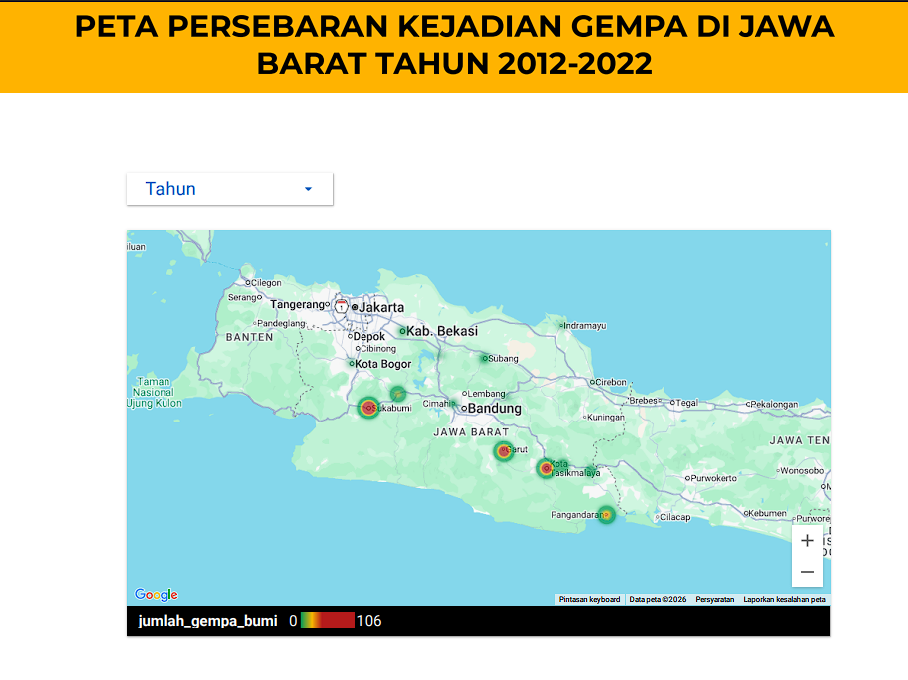
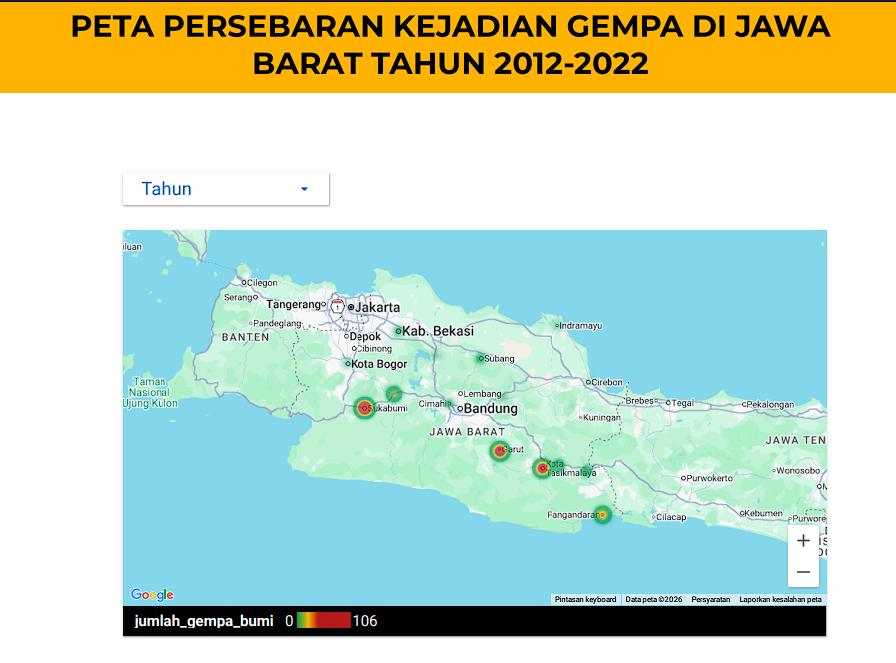
rombak layout portfolio dan tambah project dan sertifikasi

Changed region(s): [[0.125, 0.2715, 0.9375, 0.9653], [0.0, 0.0, 1.0, 0.1508]]

diff --git a/src/Components/Layouts/Project_Section/Project_section.jsx b/src/Components/Layouts/Project_Section/Project_section.jsx
@@ -1,5 +1,5 @@
 // Section_Project.js
-import { useEffect } from "react";
+import { useEffect, useRef } from "react";
 import Card from "../../Elements/Card/Card";
 import Heading1 from "../../Elements/Heading1/Heading1";
 import Aos from "aos";
@@ -9,6 +9,19 @@ const Section_Project = () => {
     useEffect(() => {
         Aos.init({duration:2000});
     })
+    
+    const sliderRef = useRef(null);
+    const slideLeft = () => {
+        if (sliderRef.current) {
+            sliderRef.current.scrollBy({ left: -window.innerWidth / 2, behavior: 'smooth' });
+        }
+    };
+
+    const slideRight = () => {
+        if (sliderRef.current) {
+            sliderRef.current.scrollBy({ left: window.innerWidth / 2, behavior: 'smooth' });
+        }
+    };
     const stacksInfo = {
         html: { name: 'HTML', icon: 'https://cdn.jsdelivr.net/gh/devicons/devicon@latest/icons/html5/html5-original.svg' },
         css: { name: 'CSS', icon: 'https://cdn.jsdelivr.net/gh/devicons/devicon@latest/icons/css3/css3-original.svg' },
@@ -19,26 +32,45 @@ const Section_Project = () => {
         excel: { name: 'Excel', icon: '/img/excel.png' },
         lookerstudio: { name: 'Looker Studio', icon: '/img/lookerstudio.svg' },
         figma: { name: 'Figma', icon: '/img/figma.png' },
+        laravel: { name: 'Laravel', icon: 'https://cdn.jsdelivr.net/gh/devicons/devicon@latest/icons/laravel/laravel-original.svg' },
+        php: { name: 'PHP', icon: 'https://cdn.jsdelivr.net/gh/devicons/devicon@latest/icons/php/php-original.svg' },
+        bootstrap: { name: 'Bootstrap', icon: 'https://cdn.jsdelivr.net/gh/devicons/devicon@latest/icons/bootstrap/bootstrap-original.svg' },
+        mysql: { name: 'MySQL', icon: 'https://cdn.jsdelivr.net/gh/devicons/devicon@latest/icons/mysql/mysql-original.svg' },
+        python: { name: 'Python', icon: 'https://cdn.jsdelivr.net/gh/devicons/devicon@latest/icons/python/python-original.svg' },
 
     };
     const daisyuiIcon = 'https://img.daisyui.com/images/daisyui-logo/daisyui-logomark.svg';
 
     const card = [
-        {id:1, title:'Portofolio Versi Lama', teks:'Website portofolio pertama yang saya buat waktu awal-awal ngoding. Cocok buat nostalgia ngeliat skill dasar front-end dan beberapa project lawas saya.', img:'/img/newPortofolio.png', stylingklik:'btn btn-outline btn-primary btn-sm sm:btn-md lg:btn-wide', kalimatButton:'Lihat Project', link:'https://putrapradwi.vercel.app/', stack: [stacksInfo.html, stacksInfo.css, stacksInfo.js]},
-        {id:2, title:'Digital Idul Fitri & THR', teks:'Website seru-seruan buat ngucapin Selamat Idul Fitri. Nggak cuma banner ucapan biasa, di sini juga ada tombol rahasia yang isinya link Dana Kaget buat bagi-bagi THR beneran ke teman-teman!',img:'/img/idulFitri.png', stylingklik:'btn btn-outline btn-primary btn-sm sm:btn-md lg:btn-wide', kalimatButton:'Lihat Project', link:'https://idulfitri-nine.vercel.app/', stack: [stacksInfo.react, stacksInfo.tailwind, {name: 'DaisyUI', icon: daisyuiIcon}]},
-         {id:3, title:'Visualisasi Peta Persebaran Gempa Di Jawa Barat ', teks:'Sebuah Project kelompok bersama temen-temen kuliah dengan tema visualisasi data gempa di Jawa Barat menggunakan data dump dari kaggle.com', img:'/img/peta.png', stylingklik:'btn btn-outline btn-primary btn-sm sm:btn-md lg:btn-wide', kalimatButton:'Lihat Project', link:'https://datastudio.google.com/s/qA_-MnGtm-Q', stack: [stacksInfo.lookerstudio, stacksInfo.excel]},
-        {id:4, title:'App Patungan Makan', teks:'Suka pusing kalau habis nongkrong tapi bingung ngitung patungan? Nah, web app sederhana ini saya bikin khusus buat ngitung tagihan makan/nongkrong bareng supaya lebih cepat, gampang, dan adil.', img:'/img/Apppatungan.png', stylingklik:'btn btn-outline btn-primary btn-sm sm:btn-md lg:btn-wide', kalimatButton:'Lihat Project', link:'https://patunganapp.vercel.app/', stack: [stacksInfo.vue, stacksInfo.tailwind]},
-         {id:5, title:'Slicing Landing Page Manajemen Kontrak', teks:'website dibuat ulang dengan desain yang lebih modern dan responsif dengan sumber dari desain yang saya dapat dari dribble', img:'/img/slicingdesain.png', stylingklik:'btn btn-outline btn-primary btn-sm sm:btn-md lg:btn-wide', kalimatButton:'Lihat Project', link:'https://slicing-website-two.vercel.app/', stack: [stacksInfo.vue, stacksInfo.tailwind]},
-        {id:6, title:'Auto Random Color', teks:'Proyek iseng untuk belajar eksplorasi logika Javascript. Website ini langsung ngasih kombinasi warna-warna acak yang unik di layar cuma bermodal sekali klik. Simpel, tapi seru buat dilihat.', img:'/img/randomColor.png', stylingklik:'btn btn-outline btn-primary btn-sm sm:btn-md lg:btn-wide', kalimatButton:'Lihat Project', link:'https://auto-random-color.vercel.app/', stack: [stacksInfo.html, stacksInfo.css, stacksInfo.js]},
+       
+        {id:2, title:'Catatanku', teks:'app catatan sederhana merupakan project pertama saya menggunakan laravel dan my sql digunakan untuk menyimpan catatan pribadi', img:'/img/catatanku.png', stylingklik:'btn btn-outline btn-primary btn-sm sm:btn-md lg:btn-wide', kalimatButton:'Lihat Project', link:'https://catatanku-app.vercel.app/', stack: [stacksInfo.laravel, stacksInfo.mysql, stacksInfo.php]},
+        {id:3, title:'To Do List', teks:'aplikasi to do list sederhana merupakan project pertama saya menggunakan laravel dan my sql digunakan untuk menyimpan catatan pribadi', img:'/img/todolist.png', stylingklik:'btn btn-outline btn-primary btn-sm sm:btn-md lg:btn-wide', kalimatButton:'Lihat Project', link:'https://tododolist-app.vercel.app/', stack: [stacksInfo.laravel, stacksInfo.mysql, stacksInfo.php]},
+         {id:4, title:'Sistem Parkir Mall', teks:'aplikasi sistem parkir mall merupakan project pertama saya menggunakan laravel dan my sql digunakan untuk menyimpan catatan pribadi', img:'/img/sistemparkirmall.png', stylingklik:'btn btn-outline btn-primary btn-sm sm:btn-md lg:btn-wide', kalimatButton:'Lihat Project', link:'https://sistemparkirmall.vercel.app/', stack: [stacksInfo.laravel, stacksInfo.mysql, stacksInfo.php]},
+        {id:5, title:'Digital Idul Fitri & THR', teks:'Website seru-seruan buat ngucapin Selamat Idul Fitri. Nggak cuma banner ucapan biasa, di sini juga ada tombol rahasia yang isinya link Dana Kaget buat bagi-bagi THR beneran ke teman-teman!',img:'/img/idulFitri.png', stylingklik:'btn btn-outline btn-primary btn-sm sm:btn-md lg:btn-wide', kalimatButton:'Lihat Project', link:'https://idulfitri-nine.vercel.app/', stack: [stacksInfo.react, stacksInfo.tailwind, {name: 'DaisyUI', icon: daisyuiIcon}]},
+         {id:6, title:'Visualisasi Peta Persebaran Gempa Di Jawa Barat ', teks:'Sebuah Project kelompok bersama temen-temen kuliah dengan tema visualisasi data gempa di Jawa Barat menggunakan data dump dari kaggle.com', img:'/img/peta.png', stylingklik:'btn btn-outline btn-primary btn-sm sm:btn-md lg:btn-wide', kalimatButton:'Lihat Project', link:'https://datastudio.google.com/s/qA_-MnGtm-Q', stack: [stacksInfo.lookerstudio, stacksInfo.excel]},
+        {id:7, title:'App Patungan Makan', teks:'Suka pusing kalau habis nongkrong tapi bingung ngitung patungan? Nah, web app sederhana ini saya bikin khusus buat ngitung tagihan makan/nongkrong bareng supaya lebih cepat, gampang, dan adil.', img:'/img/Apppatungan.png', stylingklik:'btn btn-outline btn-primary btn-sm sm:btn-md lg:btn-wide', kalimatButton:'Lihat Project', link:'https://patunganapp.vercel.app/', stack: [stacksInfo.vue, stacksInfo.tailwind]},
+         {id:8, title:'Slicing Landing Page Manajemen Kontrak', teks:'website dibuat ulang dengan desain yang lebih modern dan responsif dengan sumber dari desain yang saya dapat dari dribble', img:'/img/slicingdesain.png', stylingklik:'btn btn-outline btn-primary btn-sm sm:btn-md lg:btn-wide', kalimatButton:'Lihat Project', link:'https://slicing-website-two.vercel.app/', stack: [stacksInfo.vue, stacksInfo.tailwind]},
+        {id:9, title:'Auto Random Color', teks:'Proyek iseng untuk belajar eksplorasi logika Javascript. Website ini langsung ngasih kombinasi warna-warna acak yang unik di layar cuma bermodal sekali klik. Simpel, tapi seru buat dilihat.', img:'/img/randomColor.png', stylingklik:'btn btn-outline btn-primary btn-sm sm:btn-md lg:btn-wide', kalimatButton:'Lihat Project', link:'https://auto-random-color.vercel.app/', stack: [stacksInfo.html, stacksInfo.css, stacksInfo.js]},
+         {id:10, title:'Portofolio Versi Lama', teks:'Website portofolio pertama yang saya buat waktu awal-awal ngoding. Cocok buat nostalgia ngeliat skill dasar front-end dan beberapa project lawas saya.', img:'/img/newPortofolio.png', stylingklik:'btn btn-outline btn-primary btn-sm sm:btn-md lg:btn-wide', kalimatButton:'Lihat Project', link:'https://putrapradwi.vercel.app/', stack: [stacksInfo.html, stacksInfo.css, stacksInfo.js]},
     ]
 
     return (
         <div data-aos="fade-up" className={`container mx-auto px-4 py-8  sm:px-6 lg:px-8`} id="project">
             <Heading1 Text={`Project`} Styling={`text-center text-2xl capitalize mb-10 sm:text-3xl md:text-4xl lg:text-5xl`}/>
-            <div className={`grid grid-cols-1 gap-6 sm:grid-cols-2 lg:grid-cols-2 `}>
-                {card.map((card)=>(
-                    <Card key={card.id} Title={card.title} Teks={card.teks} Imgsrc={card.img} styleImage={`w-full sm:w-3/4 mx-auto rounded-xl object-cover`} styleHeading={`font-bold mt-4 mb-3 text-center text-xl sm:text-xl md:text-2xl`} StyleKalimat={`mt-3 mb-4 text-justify text-slate-300 text-sm sm:text-base md:text-lg`} styleButton={card.stylingklik} textbutton={card.kalimatButton} Link={card.link} stack={card.stack}/>
-                ))}
+            <div className="relative group">
+                <button onClick={slideLeft} className="absolute left-0 sm:left-2 lg:-left-4 top-1/2 -translate-y-1/2 z-10 bg-slate-800/80 hover:bg-primary hover:text-white p-2 sm:p-3 rounded-full text-slate-300 shadow-xl backdrop-blur-sm transition-all opacity-70 hover:opacity-100 sm:opacity-0 group-hover:opacity-100 flex items-center justify-center">
+                    <svg xmlns="http://www.w3.org/2000/svg" fill="none" viewBox="0 0 24 24" strokeWidth={2.5} stroke="currentColor" className="w-5 h-5 sm:w-6 sm:h-6"><path strokeLinecap="round" strokeLinejoin="round" d="M15.75 19.5L8.25 12l7.5-7.5" /></svg>
+                </button>
+                <button onClick={slideRight} className="absolute right-0 sm:right-2 lg:-right-4 top-1/2 -translate-y-1/2 z-10 bg-slate-800/80 hover:bg-primary hover:text-white p-2 sm:p-3 rounded-full text-slate-300 shadow-xl backdrop-blur-sm transition-all opacity-70 hover:opacity-100 sm:opacity-0 group-hover:opacity-100 flex items-center justify-center">
+                    <svg xmlns="http://www.w3.org/2000/svg" fill="none" viewBox="0 0 24 24" strokeWidth={2.5} stroke="currentColor" className="w-5 h-5 sm:w-6 sm:h-6"><path strokeLinecap="round" strokeLinejoin="round" d="M8.25 4.5l7.5 7.5-7.5 7.5" /></svg>
+                </button>
+                <div ref={sliderRef} className="flex overflow-x-auto scroll-smooth snap-x snap-mandatory gap-6 pb-8 pt-4 [&::-webkit-scrollbar]:hidden [-ms-overflow-style:none] [scrollbar-width:none]">
+                    {card.map((card)=>(
+                        <div key={card.id} className="snap-center shrink-0 w-[90vw] sm:w-[60vw] md:w-[45vw] lg:w-[35vw]">
+                            <Card Title={card.title} Teks={card.teks} Imgsrc={card.img} styleImage={`w-full h-52 sm:h-64 object-cover object-top mx-auto rounded-xl`} styleHeading={`font-bold mt-4 mb-3 text-center text-xl sm:text-xl md:text-2xl`} StyleKalimat={`mt-3 mb-4 text-justify text-slate-300 text-sm sm:text-base md:text-lg`} styleButton={card.stylingklik} textbutton={card.kalimatButton} Link={card.link} stack={card.stack}/>
+                        </div>
+                    ))}
+                </div>
             </div>
         </div>
     );

diff --git a/src/Components/Layouts/Section_Certification/Certification.jsx b/src/Components/Layouts/Section_Certification/Certification.jsx
@@ -6,11 +6,12 @@ import "aos/dist/aos.css"
 
 const Sertifikat = () => {
     const Kartu = [
-        {id:1, judul:'Data Analysis', kalimat:'Sertifikasi Penyelesaian Course FreeCodeCamp Data Analysis With Python.', buttonstyle:'btn btn-outline btn-primary btn-sm sm:btn-md lg:btn-wide',kalimatButton:'Lihat Sertifikat', link:'https://academy.dqlab.id/Certificate_check/result/DQLABFREECLASS01DSEMOH#mycertificate'},
-        {id:2, judul:'Data Analysis - Python Introduction', kalimat:'Sertifikasi Penyelesaian Course Data Analysis With Python DQLab Free Class.', buttonstyle:'btn btn-outline btn-primary btn-sm sm:btn-md lg:btn-wide', kalimatButton:'Lihat Sertifikat', link:'https://academy.dqlab.id/Certificate_check/result/DQLABINTP1VHLPVW#mycertificate'},
-        {id:3, judul:'SQL Fundamental for Data Science', kalimat:'Sertifikasi Penyelesaian Course SQL DQLab Free Class.', buttonstyle:'btn btn-outline btn-primary btn-sm sm:btn-md lg:btn-wide', kalimatButton:'Lihat Sertifikat', link:'https://academy.dqlab.id/Certificate_check/result/DQLABSQLT1RSWSFV#mycertificate'},
-        {id:4, judul:'Microsoft Excel Pivot Table', kalimat:'Sertifikasi Penyelesaian Course Excel Pivot Table MySkill.', buttonstyle:'btn btn-outline btn-primary btn-sm sm:btn-md lg:btn-wide', kalimatButton:'Lihat Sertifikat', link:'https://drive.google.com/file/d/1nZ7h6-0pq2u8megQc0dvLTLhHa4mHDPt/view?usp=drive_link'},
-        {id:5, judul:'Data Analysis With Python', kalimat:'Sertifikasi Course FreeCodeCamp Data Analysis With Python.', buttonstyle:'btn btn-outline btn-primary btn-sm sm:btn-md lg:btn-wide', kalimatButton:'Lihat Sertifikat', link:'https://www.freecodecamp.org/certification/Igprad/data-analysis-with-python-v7'}
+        {id:1, judul:'Front End Web Development Ultimate', kalimat:'Sertifikasi Penyelesaian Course Front End Web Development Ultimate dari Udemy.', buttonstyle:'btn btn-outline btn-primary btn-sm sm:btn-md lg:btn-wide',kalimatButton:'Lihat Sertifikat', link:'https://drive.google.com/file/d/1fmV3KfYFv_dY8_jyTdhr2q5pOKhRKs9E/view?usp=sharing'},
+         {id:2, judul:'Data Analysis With Python', kalimat:'Sertifikasi Penyelesaian Course FreeCodeCamp Data Analysis With Python.', buttonstyle:'btn btn-outline btn-primary btn-sm sm:btn-md lg:btn-wide',kalimatButton:'Lihat Sertifikat', link:'https://academy.dqlab.id/Certificate_check/result/DQLABFREECLASS01DSEMOH#mycertificate'},
+        {id:3, judul:'Data Analysis - Python Introduction', kalimat:'Sertifikasi Penyelesaian Course Data Analysis With Python DQLab Free Class.', buttonstyle:'btn btn-outline btn-primary btn-sm sm:btn-md lg:btn-wide', kalimatButton:'Lihat Sertifikat', link:'https://academy.dqlab.id/Certificate_check/result/DQLABINTP1VHLPVW#mycertificate'},
+        {id:4, judul:'SQL Fundamental for Data Science', kalimat:'Sertifikasi Penyelesaian Course SQL DQLab Free Class.', buttonstyle:'btn btn-outline btn-primary btn-sm sm:btn-md lg:btn-wide', kalimatButton:'Lihat Sertifikat', link:'https://academy.dqlab.id/Certificate_check/result/DQLABSQLT1RSWSFV#mycertificate'},
+        {id:5, judul:'Microsoft Excel Pivot Table', kalimat:'Sertifikasi Penyelesaian Course Excel Pivot Table MySkill.', buttonstyle:'btn btn-outline btn-primary btn-sm sm:btn-md lg:btn-wide', kalimatButton:'Lihat Sertifikat', link:'https://drive.google.com/file/d/1nZ7h6-0pq2u8megQc0dvLTLhHa4mHDPt/view?usp=drive_link'},
+        {id:6, judul:'Data Analysis With Python', kalimat:'Sertifikasi Course FreeCodeCamp Data Analysis With Python.', buttonstyle:'btn btn-outline btn-primary btn-sm sm:btn-md lg:btn-wide', kalimatButton:'Lihat Sertifikat', link:'https://www.freecodecamp.org/certification/Igprad/data-analysis-with-python-v7'}
     ]
 
     useEffect(()=> {

diff --git a/src/Components/Elements/Card/Card.jsx b/src/Components/Elements/Card/Card.jsx
@@ -8,7 +8,9 @@ const Card = ({Teks,Title,styleHeading,Imgsrc, Ket, styleImage, StyleKalimat,sty
     return (
         <div className={`border box-border px-3 py-6 bg-transparent flex flex-col h-full rounded-md shadow-sm hover:shadow-md transition-shadow`}>
             <Heading1 Text={Title} Styling={styleHeading} />
-            <Image src={Imgsrc} alt={Ket} styleImg={styleImage}/>
+            {Imgsrc && (
+                <Image src={Imgsrc} alt={Ket} styleImg={styleImage}/>
+            )}
             <Kalimat teks={Teks} Styling={StyleKalimat}/>
             {stack && stack.length > 0 && (
                 <div className="flex flex-wrap items-center justify-center gap-3 mt-2 mb-4">

diff --git a/src/Components/Layouts/Hero_Section/Hero_section.jsx b/src/Components/Layouts/Hero_Section/Hero_section.jsx
@@ -6,7 +6,7 @@ import Aos from "aos";
 import "aos/dist/aos.css";
 
 const HeroSection= () => {
-    const TextRunning = ['Full Stack Developer', 'Trainne Robotika','System Analysis']
+    const TextRunning = ['Full Stack Developer', 'Instruktor Robotika','System Analysis']
     const [textIndex, setTextIndex] = useState(0)
 
     useEffect(() => {

diff --git a/src/Pages/Template.jsx b/src/Pages/Template.jsx
@@ -25,8 +25,8 @@ const Template = () => {
             <Navbar />
             <HeroSection />
             <Section_Project />
+             <Sertifikat />
             <About />
-            <Sertifikat />
             <Skill />
             <Footer />
         </main>
